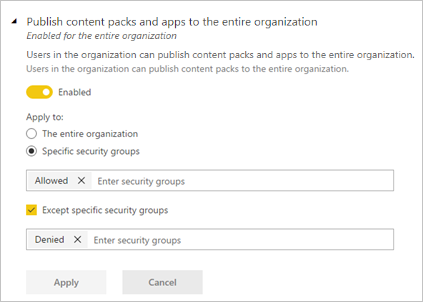
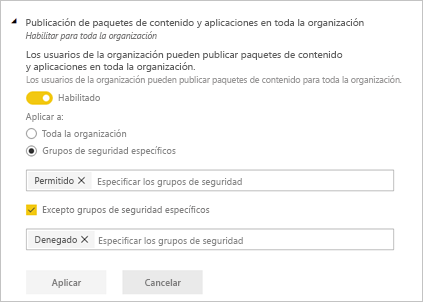
commit translated contents

diff --git a/powerbi-docs/learning-catalog/paginated-reports-online-course.md b/powerbi-docs/learning-catalog/paginated-reports-online-course.md
@@ -1,0 +1,119 @@
+---
+title: Curso Informes paginados de Power BI en un día
+description: Este curso en línea pretende ayudarle como autor de informes con los conocimientos técnicos necesarios para crear, publicar y distribuir informes paginados de Power BI.
+author: peter-myers
+ms.reviewer: maggies
+featuredvideoid: DN1t5p9aui0
+ms.service: powerbi
+ms.subservice: report-builder
+ms.topic: tutorial
+ms.date: 03/18/2020
+ms.author: v-pemyer
+ms.openlocfilehash: 3b6c3f79b6695c670b942253ddd2c2b158dc3acc
+ms.sourcegitcommit: 250242fd6346b60b0eda7a314944363c0bacaca8
+ms.translationtype: HT
+ms.contentlocale: es-ES
+ms.lasthandoff: 05/20/2020
+ms.locfileid: "83693240"
+---
+# <a name="power-bi-paginated-reports-in-a-day-course"></a>Curso Informes paginados de Power BI en un día
+
+El curso basado en vídeos **Informes paginados de Power BI en un día** le proporciona, como autor de informes, los conocimientos técnicos necesarios para crear, publicar y distribuir informes paginados de Power BI. Se compone de casi 4 horas y 20 minutos de contenido visible, disponible a petición y sin cargo alguno. También hay un [kit para ampliar conocimientos](#self-study-kit), que puede descargar y usar para completar ocho laboratorios prácticos.
+
+En concreto, el curso se dirige a:
+
+- Autores de informes de Power BI
+- Analistas de Excel
+- Creadores de informes con conocimientos sobre SQL Server Reporting Services (SSRS), que quieran repasarlos
+- Autores de Crystal Reports
+
+Al finalizar el curso, sabrá cómo:
+
+> [!div class="checklist"]
+> - Diseñar diseños de informes
+> - Conectarse a orígenes de datos para recuperar datos de informe
+> - Trabajar con parámetros
+> - Visualizar los datos del informe
+> - Agregar características interactivas
+> - Publicar, consumir, entregar e insertar informes paginados
+
+Vea el vídeo de introducción para iniciar el curso.
+
+> [!VIDEO https://www.youtube.com/embed/DN1t5p9aui0]
+
+## <a name="course-outline"></a>Esquema del curso
+
+El [curso de 24 vídeos](https://www.youtube.com/playlist?list=PL1N57mwBHtN1icIhpjQOaRL8r9G-wytpT) se organiza en ocho módulos. Se recomienda ver los vídeos en la secuencia grabada, empezando por el vídeo 1 y finalizando con el vídeo 24.
+
+- **Introducción**
+  - Vídeo 1: [Bienvenida e introducción al curso](https://www.youtube.com/watch?v=DN1t5p9aui0&list=PL1N57mwBHtN1icIhpjQOaRL8r9G-wytpT)
+- **Módulo 1: Creación de informes de Power BI**
+  - Vídeo 2: [Creación de informes de Power BI: parte 1](https://www.youtube.com/watch?v=s6Amctk3Z_g&list=PL1N57mwBHtN1icIhpjQOaRL8r9G-wytpT)
+  - Vídeo 3: [Creación de informes de Power BI: parte 2](https://www.youtube.com/watch?v=jXTiYJKw1Rs&list=PL1N57mwBHtN1icIhpjQOaRL8r9G-wytpT)
+- **Módulo 2: Diseños de informes**
+  - Vídeo 4: [Diseños de informes: parte 1](https://www.youtube.com/watch?v=EjHANN3rGNs&list=PL1N57mwBHtN1icIhpjQOaRL8r9G-wytpT)
+  - Vídeo 5: [Diseños de informes: parte 2](https://www.youtube.com/watch?v=2CZIrJU_HZU&list=PL1N57mwBHtN1icIhpjQOaRL8r9G-wytpT)
+  - Vídeo 6: [Diseños de informes: parte 3](https://www.youtube.com/watch?v=eaFFzkT6pxE&list=PL1N57mwBHtN1icIhpjQOaRL8r9G-wytpT)
+  - Vídeo 7: [Diseños de informes: parte 4](https://www.youtube.com/watch?v=0z576TI27Vg&list=PL1N57mwBHtN1icIhpjQOaRL8r9G-wytpT)
+- **Módulo 3: Recuperación de datos de informe**
+  - Vídeo 8: [Recuperación de datos de informe: parte 1](https://www.youtube.com/watch?v=SHGTTYXtio0&list=PL1N57mwBHtN1icIhpjQOaRL8r9G-wytpT)
+  - Vídeo 9: [Recuperación de datos de informe: parte 2](https://www.youtube.com/watch?v=1Dzd9wb7XUY&list=PL1N57mwBHtN1icIhpjQOaRL8r9G-wytpT)
+  - Vídeo 10: [Recuperación de datos de informe: parte 3](https://www.youtube.com/watch?v=OFXG7sl5L2o&list=PL1N57mwBHtN1icIhpjQOaRL8r9G-wytpT)
+- **Módulo 4: Trabajar con parámetros**
+  - Vídeo 11: [Trabajar con parámetros: parte 1](https://www.youtube.com/watch?v=o7WaK88kheA&list=PL1N57mwBHtN1icIhpjQOaRL8r9G-wytpT)
+  - Vídeo 12: [Trabajar con parámetros: parte 2](https://www.youtube.com/watch?v=okj6wO72clQ&list=PL1N57mwBHtN1icIhpjQOaRL8r9G-wytpT)
+  - Vídeo 13: [Trabajar con parámetros: parte 3](https://www.youtube.com/watch?v=13-6sWIRD74&list=PL1N57mwBHtN1icIhpjQOaRL8r9G-wytpT)
+- **Módulo 5: Visualización de datos de informe**
+  - Vídeo 14: [Visualización de datos de informe: parte 1](https://www.youtube.com/watch?v=b4TxBBtOWSw&list=PL1N57mwBHtN1icIhpjQOaRL8r9G-wytpT)
+  - Vídeo 15: [Visualización de datos de informe: parte 2](https://www.youtube.com/watch?v=JhEa_TugXeE&list=PL1N57mwBHtN1icIhpjQOaRL8r9G-wytpT)
+  - Vídeo 16: [Visualización de datos de informe: parte 3](https://www.youtube.com/watch?v=dliLsRvQB-c&list=PL1N57mwBHtN1icIhpjQOaRL8r9G-wytpT)
+  - Vídeo 17: [Visualización de datos de informe: parte 4](https://www.youtube.com/watch?v=5yHxuRRP_eU&list=PL1N57mwBHtN1icIhpjQOaRL8r9G-wytpT)
+- **Módulo 6: Adición de características interactivas**
+  - Vídeo 18: [Adición de características interactivas: parte 1](https://www.youtube.com/watch?v=LInMHpTEaI0&list=PL1N57mwBHtN1icIhpjQOaRL8r9G-wytpT)
+  - Vídeo 19: [Adición de características interactivas: parte 2](https://www.youtube.com/watch?v=b_pr1xsbRJc&list=PL1N57mwBHtN1icIhpjQOaRL8r9G-wytpT)
+- **Módulo 7: Más allá del desarrollo de informes**
+  - Vídeo 20: [Más allá del desarrollo de informes: parte 1](https://www.youtube.com/watch?v=1CgDVDslwvs&list=PL1N57mwBHtN1icIhpjQOaRL8r9G-wytpT)
+  - Vídeo 21: [Más allá del desarrollo de informes: parte 2](https://www.youtube.com/watch?v=KRwtl7h0ynI&list=PL1N57mwBHtN1icIhpjQOaRL8r9G-wytpT)
+- **Módulo 8: Contenido adicional**
+  - Vídeo 22: [Contenido adicional: Revisión](https://www.youtube.com/watch?v=w5zlJ8BodxI&list=PL1N57mwBHtN1icIhpjQOaRL8r9G-wytpT)
+  - Vídeo 23: [Contenido adicional: Evolución de los informes paginados](https://www.youtube.com/watch?v=pevpai65MvY&list=PL1N57mwBHtN1icIhpjQOaRL8r9G-wytpT)
+  - Vídeo 24: [Contenido adicional: Reducción de la barrera inicial](https://www.youtube.com/watch?v=vu32LfckCt8&list=PL1N57mwBHtN1icIhpjQOaRL8r9G-wytpT)
+
+## <a name="self-study-kit"></a>Kit para ampliar conocimientos
+
+Puede descargar y configurar un kit para ampliar conocimientos, que consta del contenido de la presentación y de ocho laboratorios prácticos:
+
+1. Use [este vínculo](https://aka.ms/priad-student) para descargar el kit para ampliar conocimientos (.zip) de forma local en el equipo.
+1. Abra las propiedades del archivo y active "desbloquear" (es posible que Windows marque el archivo como potencialmente no de confianza).
+1. Extraiga el contenido del archivo en una carpeta del sistema de archivos. Se recomienda crear una carpeta fácil de encontrar, por ejemplo, **Entrenamiento**. Los documentos del laboratorio harán referencia a esta ubicación como **&lt;CourseFolder&gt;** .
+
+Después de la extracción, tendrá la carpeta **PowerBIPRIAD**, en la que encontrará las carpetas siguientes:
+
+- **Lab01A** (y todas las demás carpetas del laboratorio). Las carpetas del laboratorio contienen el documento y los recursos del laboratorio, que pueden incluir recursos y archivos de solución.
+- **MySolution**: esta carpeta almacena los archivos de la solución. Las instrucciones del laboratorio le indicarán cuándo usarlo.
+- **Presentation**: esta carpeta contiene el archivo de presentación del curso, disponible como documento PDF.
+
+### <a name="getting-started-with-the-kit"></a>Introducción al kit
+
+Se recomienda ver primero el curso en línea. Puede volver a consultar la teoría de la presentación si abre el archivo **&lt;CourseFolder&gt;\PowerBIPRIAD\Presentation\PowerBIPRIAD_Presentation.pdf**. La presentación incluye ocho diapositivas de laboratorio, que indican cuándo es el momento de poner en práctica la teoría. También incluye muchos vínculos de recursos para ayudarle a encontrar contenido relacionado.
+
+Cuando esté listo para iniciar el primer laboratorio, abra el archivo **&lt;CourseFolder&gt;\PowerBIPRIAD\Lab01A\PowerBIPRIAD_Lab01A.pdf**. Este documento le guía por el inicio de sesión en el servicio Power BI, la carga de un conjunto de datos y, después, la instalación del [Generador de informes de Power BI](../paginated-reports/report-builder-power-bi.md).
+
+> [!NOTE]
+> Su responsabilidad es tener una cuenta propia de Power BI. Si todavía no tiene una, vea [Registro en Power BI como usuario individual](../fundamentals/service-self-service-signup-for-power-bi.md).
+>
+> Tendrá que iniciar sesión en Power BI para publicar un archivo de Power BI Desktop en un área de trabajo. El resultado de la publicación es un conjunto de datos que se usa como origen de datos de informe. No necesita una licencia de Power BI Pro ni una suscripción de Power BI Premium para usar un conjunto de datos como origen de datos de informe.
+>
+> Algunas tareas del laboratorio implican la publicación de un informe paginado en un área de trabajo. Solo se puede abrir un informe paginado cuando se guarda en un área de trabajo de [capacidad dedicada](../admin/service-premium-what-is.md#dedicated-capacities), que tiene habilitada la carga de trabajo de informes paginados. Si no tiene acceso a un área de trabajo adecuada, se le proporcionará un vínculo para ver un vídeo en el que se muestra la publicación del informe en su lugar.
+
+## <a name="instructor-kit"></a>Kit de instructor
+
+Use [este vínculo](https://aka.ms/priad-instructor) para descargar el kit de instructor (.zip) de forma local en el equipo.
+
+## <a name="next-steps"></a>Pasos siguientes
+
+Para obtener más información sobre este artículo, consulte los recursos siguientes:
+
+- Tutorial: [Creación de un informe paginado y su carga en el servicio Power BI](../paginated-reports/paginated-reports-quickstart-aw.md)
+- ¿Tiene alguna pregunta? [Pruebe a preguntar a la comunidad de Power BI](https://community.powerbi.com/)
+- ¿Sugerencias? [Ideas para contribuir a mejorar Power BI](https://ideas.powerbi.com/)

diff --git a/powerbi-docs/admin/service-admin-signing-up-for-power-bi-with-a-new-office-365-trial.md b/powerbi-docs/admin/service-admin-signing-up-for-power-bi-with-a-new-office-365-trial.md
@@ -6,57 +6,57 @@ ms.reviewer: ''
 ms.service: powerbi
 ms.subservice: powerbi-admin
 ms.topic: conceptual
-ms.date: 04/24/2020
+ms.date: 05/17/2020
 ms.author: mihart
 LocalizationGroup: Administration
-ms.openlocfilehash: b74d06c9be03ae98fb6c8b2e38f665f9bbcc92b1
-ms.sourcegitcommit: bfc2baf862aade6873501566f13c744efdd146f3
+ms.openlocfilehash: 9db228253e0e88105108a1b3a5eaf725c73e0abb
+ms.sourcegitcommit: a72567f26c1653c25f7730fab6210cd011343707
 ms.translationtype: HT
 ms.contentlocale: es-ES
-ms.lasthandoff: 05/13/2020
-ms.locfileid: "83345064"
+ms.lasthandoff: 05/19/2020
+ms.locfileid: "83563612"
 ---
 # <a name="signing-up-for-power-bi-with-a-new-microsoft-365-trial"></a>Registro en Power BI con una nueva prueba de Microsoft 365
 
-En este artículo se describe una manera alternativa de registrarse en Power BI si todavía no tiene una cuenta de correo electrónico profesional o educativa. 
+En este artículo se describe una manera alternativa de registrarse en Power BI si todavía no tiene una cuenta de correo electrónico profesional o educativa.
 
 Si tiene problemas para registrarse en Power BI con su dirección de correo electrónico, primero debe asegurarse de que se trata de una [dirección de correo electrónico que se puede usar con Power BI](../fundamentals/service-self-service-signup-for-power-bi.md#supported-email-addresses). Si no es apropiada, regístrese para obtener una versión de prueba de Microsoft 365 y crear una cuenta profesional. Después, use esa nueva cuenta profesional para registrarse en el servicio Power BI. Podrá usar Power BI incluso después de que expire la versión de prueba de Microsoft 365.
 
 > [!NOTE]
 > Office 365 ha pasado a llamarse recientemente Microsoft 365. Mientras no se actualicen todos nuestros artículos, podría seguir usándose la denominación Office 365.
 
-1. Regístrese para obtener una versión de prueba de Microsoft 365 en el [sitio web de Microsoft 365](https://www.microsoft.com/en-us/microsoft-365/business/compare-more-office-365-for-business-plans).
+## <a name="sign-up-for-a-microsoft-365-trial-of-office"></a>Registro para obtener una evaluación de Microsoft 365 de Office
+Regístrese para obtener una versión de prueba de Microsoft 365 en el [sitio web de Microsoft 365](https://www.microsoft.com/microsoft-365/business/compare-more-office-365-for-business-plans). Si aún no tiene una cuenta, Microsoft le guiará a través de los pasos necesarios para crear una. Puesto que las cuentas de correo electrónico comerciales (como hotmail y gmail) no funcionarán con Microsoft 365, creará una cuenta que lo hará.  Esta cuenta de correo electrónico tendrá una apariencia similar a *zalan@onmicrosoft.com* .
 
-    ![Página de bienvenida](media/service-admin-signing-up-for-power-bi-with-a-new-office-365-trial/power-bi-try-now.png)
+![Selección de Pruébelo gratis](media/service-admin-signing-up-for-power-bi-with-a-new-office-365-trial/power-bi-try-free.png)
 
-    ![Opción para registrarse y obtener una cuenta nueva](media/service-admin-signing-up-for-power-bi-with-a-new-office-365-trial/power-bi-existing.png)
+Si selecciona **Office 365 E5**, la evaluación incluirá Power BI Pro. La evaluación de Power BI Pro expirará al mismo tiempo que la evaluación de Office 365 E5, que actualmente es de 30 días. Si, en su lugar, selecciona **Office 365 E3**, podrá suscribirse a Power BI como usuario *gratuito* y actualizar a **Pro** para una evaluación de 60 días. 
 
-    ![Creación de una cuenta profesional o educativa](media/service-admin-signing-up-for-power-bi-with-a-new-office-365-trial/power-bi-create-email.png)
+1. Especifique su dirección de correo electrónico. Microsoft le indicará si la dirección de correo electrónico funcionará con Microsoft 365 o si tiene que crear otra dirección de correo electrónico.  ![Página de bienvenida](media/service-admin-signing-up-for-power-bi-with-a-new-office-365-trial/power-bi-setup.png)
 
-    ![Opción para registrarse y obtener una cuenta nueva](media/service-admin-signing-up-for-power-bi-with-a-new-office-365-trial/power-bi-no-email.png)
+    Si necesita una nueva dirección de correo electrónico, Microsoft le guiará a través de los pasos. Primer paso, creación de una cuenta nueva. Seleccione **Configurar cuenta**.
 
-    ![Especificación de la información de contacto](media/service-admin-signing-up-for-power-bi-with-a-new-office-365-trial/power-bi-welcome-you.png)
+    ![Opción para registrarse y obtener una cuenta nueva](media/service-admin-signing-up-for-power-bi-with-a-new-office-365-trial/power-bi-email.png)
 
-    
+2. Escriba los detalles de la nueva cuenta.
 
-1. Cree un nombre de inicio de sesión de trabajo similar a you@yourcompany.onmicrosoft.com. Será el nombre de inicio de sesión que usará con Power BI.
+    ![Creación de una cuenta profesional o educativa](media/service-admin-signing-up-for-power-bi-with-a-new-office-365-trial/power-bi-enter-info.png)
 
-    ![Creación de la dirección de trabajo](media/service-admin-signing-up-for-power-bi-with-a-new-office-365-trial/power-bi-create-address.png)
+3. Cree su dirección de correo electrónico y contraseña. Cree un nombre de inicio de sesión similar a you@yourcompany.onmicrosoft.com. Este es el inicio de sesión que usará con la nueva cuenta de Office 365 y con Power BI.
 
-    ![Obtención del código a través de un mensaje de texto](media/service-admin-signing-up-for-power-bi-with-a-new-office-365-trial/power-bi-robot.png)    
+    ![Opción para registrarse y obtener una cuenta nueva](media/service-admin-signing-up-for-power-bi-with-a-new-office-365-trial/power-bi-create-account.png)
 
-1. Es posible que tenga que esperar hasta que se cree el inquilino. 
+4. Eso es todo.  Ahora tiene una dirección de correo electrónico que puede usar para registrarse en Power BI. Consulte [Registro en Power BI como usuario individual](../service-self-service-signup-for-power-bi.md).
 
-Eso es todo.  Ahora tiene una dirección de correo electrónico que puede usar para registrarse en Power BI. Consulte [Registro en Power BI como usuario individual](../fundamentals/service-self-service-signup-for-power-bi.md).
+     ![Especificación de la información de contacto](media/service-admin-signing-up-for-power-bi-with-a-new-office-365-trial/power-bi-thank.png)
 
-
-
-
+    Es posible que tenga que esperar hasta que se cree el inquilino.
 
 ## <a name="important-considerations"></a>Consideraciones importantes
-Si tiene problemas al iniciar sesión con la nueva cuenta, pruebe a usar una sesión privada del explorador.    
 
-Mediante este método de registro, se crea un nuevo inquilino de la organización, y se convertirá en el administrador del inquilino. Para obtener más información, vea [¿Qué es la administración de Power BI?](service-admin-administering-power-bi-in-your-organization.md). Puede agregar nuevos usuarios a su inquilino y compartirlo con ellos, como se describe en la [documentación para administradores de Microsoft 365](https://support.office.com/en-sg/article/Add-users-individually-to-Office-365---Admin-Help-1970f7d6-03b5-442f-b385-5880b9c256ec).
+Si tiene problemas al iniciar sesión con la nueva cuenta, pruebe a usar una sesión privada del explorador.
+
+Mediante este método de registro, se crea un nuevo inquilino de la organización, y se convertirá en el administrador del inquilino. Para obtener más información, vea [¿Qué es la administración de Power BI?](service-admin-administering-power-bi-in-your-organization.md). Puede agregar nuevos usuarios a su inquilino y compartirlo con ellos, como se describe en la [documentación para administradores de Microsoft 365](https://support.office.com/article/Add-users-individually-to-Office-365---Admin-Help-1970f7d6-03b5-442f-b385-5880b9c256ec).
 
 ## <a name="next-steps"></a>Pasos siguientes
 

diff --git a/powerbi-docs/collaborate-share/service-manage-app-workspace-in-power-bi-and-office-365.md b/powerbi-docs/collaborate-share/service-manage-app-workspace-in-power-bi-and-office-365.md
@@ -1,6 +1,6 @@
 ---
-title: Administración del área de trabajo en Power BI y Office 365
-description: Las áreas de trabajo de Power BI son una experiencia de colaboración basada en los grupos de Office 365. Administre las áreas de trabajo en Power BI y también en Office 365.
+title: Administración del área de trabajo en Power BI y Microsoft 365
+description: Las áreas de trabajo de Power BI son una experiencia de colaboración basada en los grupos de Microsoft 365. Administre las áreas de trabajo en Power BI y también en Microsoft 365.
 author: maggiesMSFT
 ms.reviewer: lukasz
 ms.service: powerbi
@@ -9,27 +9,27 @@ ms.topic: conceptual
 ms.date: 03/02/2020
 ms.author: maggies
 LocalizationGroup: Share your work
-ms.openlocfilehash: 27f3c88607f57be8b5abffdbec71ecfe80beea23
-ms.sourcegitcommit: bfc2baf862aade6873501566f13c744efdd146f3
+ms.openlocfilehash: 1365eba697538255ea8c23b03f0b5db71a7ba1cd
+ms.sourcegitcommit: 250242fd6346b60b0eda7a314944363c0bacaca8
 ms.translationtype: HT
 ms.contentlocale: es-ES
-ms.lasthandoff: 05/13/2020
-ms.locfileid: "83348077"
+ms.lasthandoff: 05/20/2020
+ms.locfileid: "83693812"
 ---
-# <a name="manage-your-workspace-in-power-bi-and-office-365"></a>Administración del área de trabajo en Power BI y Office 365
+# <a name="manage-your-workspace-in-power-bi-and-microsoft-365"></a>Administración del área de trabajo en Power BI y Microsoft 365
 
-Como creador o administrador de un [área de trabajo de Power BI](service-create-distribute-apps.md) u Office 365, administrará algunos aspectos de ella en Power BI. Otros aspectos que administra en Office 365.
+Como creador o administrador de un [área de trabajo de Power BI](service-create-distribute-apps.md) o de Microsoft 365, administrará algunos aspectos del área de trabajo en Power BI. Otros aspectos que administra en Microsoft 365.
 
 > [!NOTE]
-> La versión preliminar de la nueva experiencia de áreas de trabajo cambiará la relación entre las áreas de trabajo de Power BI y los grupos de Office 365. Ya no creará automáticamente un grupo de Office 365 cada vez que cree una de las nuevas áreas de trabajo. Obtenga información sobre [la creación de las nuevas áreas de trabajo](service-create-the-new-workspaces.md).
+> La nueva experiencia de áreas de trabajo cambiará la relación entre las áreas de trabajo de Power BI y los grupos de Microsoft 365. Ya no creará automáticamente un grupo de Microsoft 365 cada vez que cree una de las nuevas áreas de trabajo. Obtenga información sobre [la creación de las nuevas áreas de trabajo](service-create-the-new-workspaces.md).
 
 En **Power BI** puede:
 
 * Agregar o quitar miembros del área de trabajo y también convertir a un miembro del área de trabajo en administrador.
 * Editar el nombre del área de trabajo.
-* Elimine el área de trabajo, lo cual también elimina el grupo de Office 365.
+* Elimine el área de trabajo, con lo cual elimina también el grupo de Microsoft 365.
 
-En **Office 365** puede:
+En **Microsoft 365** puede:
 
 * Agregar o quitar miembros de grupos del área de trabajo y también convertir a un miembro en propietario.
 * Edite el nombre, imagen, descripción y otras opciones del grupo.
@@ -53,9 +53,9 @@ Necesita una [licencia de Power BI Pro](../fundamentals/service-features-licen
 
 1. Seleccione **Guardar** o **Cancelar**.
 
-## <a name="edit-power-bi-workspace-properties-in-office-365"></a>Edición de propiedades del área de trabajo de Power BI en Office 365
+## <a name="edit-power-bi-workspace-properties-in-microsoft-365"></a>Edición de propiedades del área de trabajo de Power BI en Microsoft 365
 
-También puede editar aspectos de un área de trabajo directamente en Outlook para Office 365.
+También puede editar aspectos de un área de trabajo directamente en Outlook para Microsoft 365.
 
 ### <a name="edit-the-members-of-the-workspace-group"></a>Edición de los miembros del grupo del área de trabajo
 
@@ -63,17 +63,17 @@ También puede editar aspectos de un área de trabajo directamente en Outlook pa
 
    ![Editar áreas de trabajo en Power BI](media/service-manage-app-workspace-in-power-bi-and-office-365/power-bi-app-ellipsis-members.png)
 
-   Se abre la vista de grupo de Outlook para Office 365 del área de trabajo. Es posible que tenga que iniciar sesión en la cuenta de trabajo.
+   Se abre la vista grupo de Outlook para Microsoft 365 del área de trabajo. Es posible que tenga que iniciar sesión en la cuenta de trabajo.
 
 1. Seleccione el rol situado junto al nombre de un compañero de equipo para convertirlo en **Miembro** o **Propietario**. Seleccione la **X** para quitar a la persona del grupo.
 
-   ![Editar un grupo de Office 365](media/service-manage-app-workspace-in-power-bi-and-office-365/pbi_managegroupo365.png)
+   ![Edición de un grupo de Microsoft 365](media/service-manage-app-workspace-in-power-bi-and-office-365/pbi_managegroupo365.png)
 
 ### <a name="add-an-image-and-set-other-workspace-properties"></a>Adición de una imagen y establecimiento de otras propiedades del área de trabajo
 
-Cuando se distribuye la aplicación desde el área de trabajo, la imagen que agrega aquí es la imagen de la aplicación. Consulte [Adición de una imagen al área de trabajo de Office 365](service-create-workspaces.md#add-an-image-to-your-office-365-workspace-optional) del artículo **Creación de las nuevas áreas de trabajo**.
+Cuando se distribuye la aplicación desde el área de trabajo, la imagen que agrega aquí es la imagen de la aplicación. Consulte [Adición de una imagen al área de trabajo de Microsoft 365](service-create-workspaces.md#add-an-image-to-your-microsoft-365-workspace-optional) del artículo **Creación de nuevas áreas de trabajo**.
 
-1. En la vista de Outlook para Office 365 del área de trabajo, vaya a la pestaña **Acerca de** y seleccione **Editar**.
+1. En la vista de Outlook para Microsoft 365 del área de trabajo, vaya a la pestaña **Acerca de** y seleccione **Editar**.
 
     ![Icono de Editar grupo](media/service-manage-app-workspace-in-power-bi-and-office-365/pbi_editgroupo365.png)
 1. Puede editar el nombre, la descripción y el idioma de las notificaciones relacionadas con el grupo. Aquí también puede agregar una imagen y establecer otras propiedades.

diff --git a/powerbi-docs/developer/visuals/power-bi-custom-visuals.md b/powerbi-docs/developer/visuals/power-bi-custom-visuals.md
@@ -10,12 +10,12 @@ ms.subservice: powerbi-desktop
 ms.topic: overview
 ms.date: 01/03/2019
 LocalizationGroup: Visualizations
-ms.openlocfilehash: 22c367dbc6160928541570bf2de37c51edcbfc14
-ms.sourcegitcommit: 7aa0136f93f88516f97ddd8031ccac5d07863b92
+ms.openlocfilehash: e9dc53eb3f49a1ef62e4e3539ac7eb6d92b317af
+ms.sourcegitcommit: a72567f26c1653c25f7730fab6210cd011343707
 ms.translationtype: HT
 ms.contentlocale: es-ES
-ms.lasthandoff: 05/05/2020
-ms.locfileid: "80550878"
+ms.lasthandoff: 05/19/2020
+ms.locfileid: "83561648"
 ---
 # <a name="visuals-in-power-bi"></a>Objetos visuales en Power BI
 
@@ -41,7 +41,7 @@ Microsoft y los miembros de la comunidad aportan objetos visuales de Power BI p
 
 ### <a name="what-is-appsource"></a>¿Qué es AppSource?
 
-[AppSource](https://appsource.microsoft.com/marketplace/apps?product=power-bi-visuals) es la ubicación de las aplicaciones, los complementos y las extensiones para el software de Microsoft. AppSource conecta a millones de usuarios de productos como Office 365, Azure, Dynamics 365, Cortana y Power BI con soluciones que les ayudan a realizar su trabajo de forma más eficaz e informada que antes.
+[AppSource](https://appsource.microsoft.com/marketplace/apps?product=power-bi-visuals) es la ubicación de las aplicaciones, los complementos y las extensiones para el software de Microsoft. AppSource conecta a millones de usuarios de productos como Microsoft 365, Azure, Dynamics 365, Cortana y Power BI con soluciones que les ayudan a realizar su trabajo de forma más eficaz e informada que antes.
 
 ### <a name="certified-power-bi-visuals"></a>Objetos visuales de Power BI certificados
 
